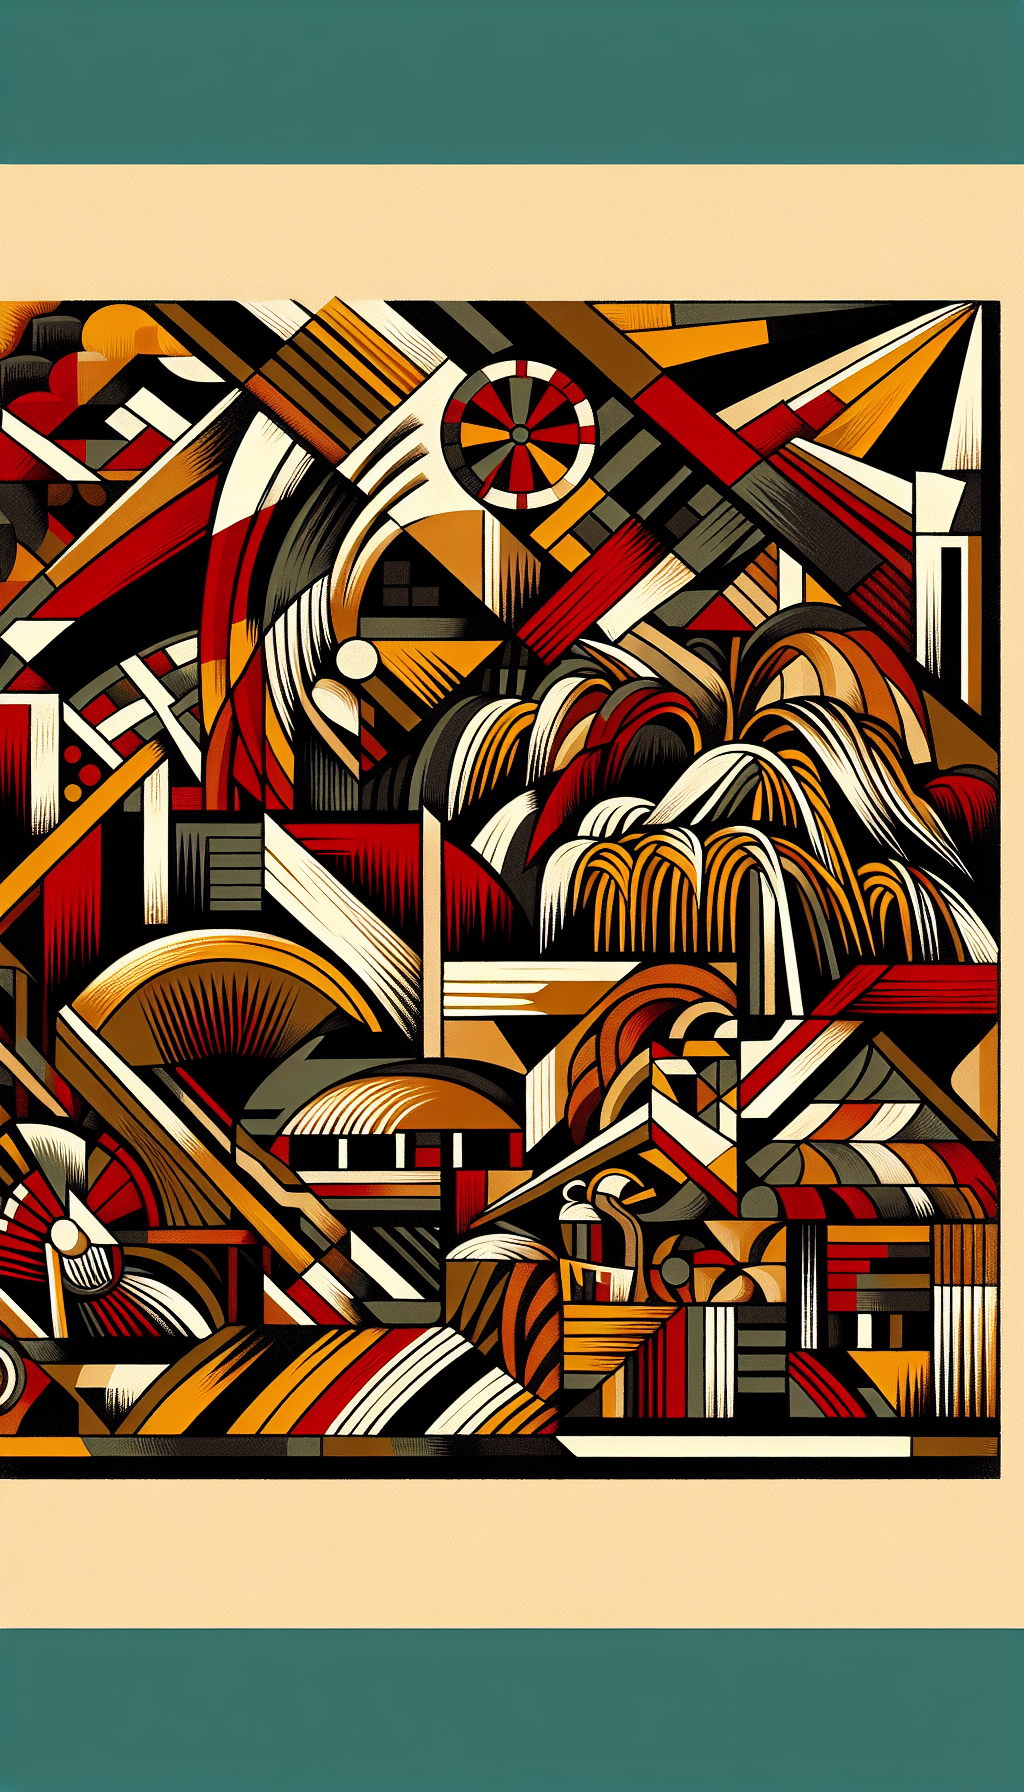
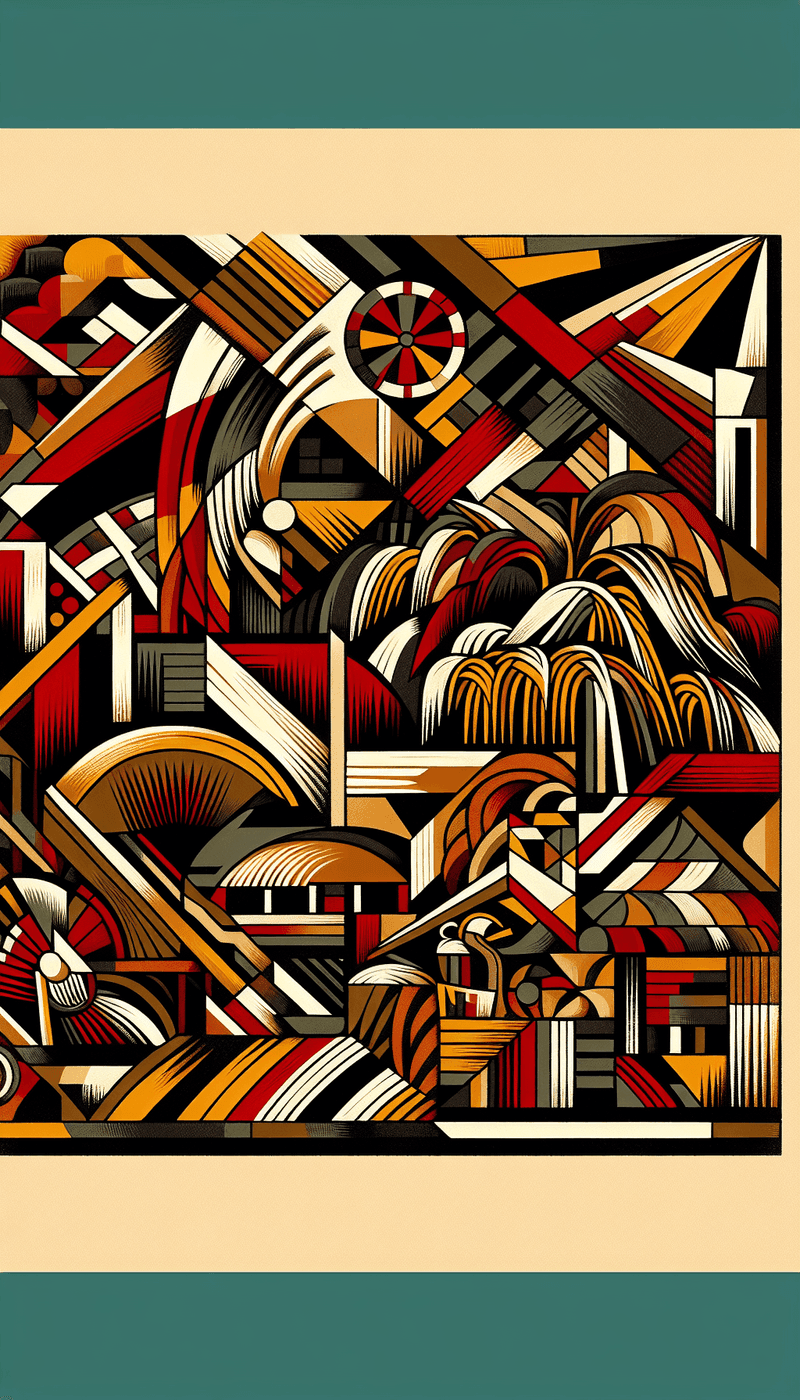
style: limitar tamaño visual de imágenes a 300px en todos los artículos

diff --git a/articulos/delapencaaljarro/de-la-penca-al-jarro.html b/articulos/delapencaaljarro/de-la-penca-al-jarro.html
@@ -63,7 +63,7 @@
     .meta-pill{display:inline-flex;align-items:center;gap:.3rem;}
     .meta-pill span{font-size:.82rem}
     .article-lead{margin:14px 0 18px;font-size:.98rem;color:#4b5563;}
-    .hero-img{margin:14px 0 24px;border-radius:18px;overflow:hidden;box-shadow:0 18px 40px rgba(15,23,42,.16);}
+    .hero-img{margin:14px auto 24px;border-radius:18px;overflow:hidden;box-shadow:0 18px 40px rgba(15,23,42,.16);max-width:300px;display:block;}
     .article-body{font-size:.97rem;color:#111827;text-align:justify}
     .article-body h2{margin:24px 0 8px;font-size:1.05rem;color:#065f46;}
     .article-body p{margin:0 0 12px;text-align:justify}

diff --git a/scripts/generate-post.js b/scripts/generate-post.js
@@ -301,7 +301,7 @@ function buildHTML({ title, excerpt, body, tag, emoji, slug, dateStr, isoDate })
     .meta-pill{display:inline-flex;align-items:center;gap:.3rem;}
     .meta-pill span{font-size:.82rem}
     .article-lead{margin:14px 0 18px;font-size:.98rem;color:#4b5563;}
-    .hero-img{margin:14px 0 24px;border-radius:18px;overflow:hidden;box-shadow:0 18px 40px rgba(15,23,42,.16);}
+    .hero-img{margin:14px auto 24px;border-radius:18px;overflow:hidden;box-shadow:0 18px 40px rgba(15,23,42,.16);max-width:300px;display:block;}
 
     /* CUERPO */
     .article-body{font-size:.97rem;color:#111827;}

diff --git a/articulos/bambu-estructural/bambu-estructural.html b/articulos/bambu-estructural/bambu-estructural.html
@@ -119,7 +119,7 @@
     .meta-pill{display:inline-flex;align-items:center;gap:.3rem;}
     .meta-pill span{font-size:.82rem}
     .article-lead{margin:14px 0 18px;font-size:.98rem;color:#4b5563;}
-    .hero-img{margin:14px 0 24px;border-radius:18px;overflow:hidden;box-shadow:0 18px 40px rgba(15,23,42,.16);}
+    .hero-img{margin:14px auto 24px;border-radius:18px;overflow:hidden;box-shadow:0 18px 40px rgba(15,23,42,.16);max-width:300px;display:block;}
 
     /* CUERPO */
     .article-body{font-size:.97rem;color:#111827;text-align:justify}

diff --git a/articulos/bioconstruccion-tecnicas-sostenibles-con-tierra/bioconstruccion-tecnicas-sostenibles-con-tierra.html b/articulos/bioconstruccion-tecnicas-sostenibles-con-tierra/bioconstruccion-tecnicas-sostenibles-con-tierra.html
@@ -119,7 +119,7 @@
     .meta-pill{display:inline-flex;align-items:center;gap:.3rem;}
     .meta-pill span{font-size:.82rem}
     .article-lead{margin:14px 0 18px;font-size:.98rem;color:#4b5563;}
-    .hero-img{margin:14px 0 24px;border-radius:18px;overflow:hidden;box-shadow:0 18px 40px rgba(15,23,42,.16);}
+    .hero-img{margin:14px auto 24px;border-radius:18px;overflow:hidden;box-shadow:0 18px 40px rgba(15,23,42,.16);max-width:300px;display:block;}
 
     /* CUERPO */
     .article-body{font-size:.97rem;color:#111827;text-align:justify}

diff --git a/articulos/cadena-de-valor-del-maguey/cadena-de-valor-del-maguey.html b/articulos/cadena-de-valor-del-maguey/cadena-de-valor-del-maguey.html
@@ -119,7 +119,7 @@
     .meta-pill{display:inline-flex;align-items:center;gap:.3rem;}
     .meta-pill span{font-size:.82rem}
     .article-lead{margin:14px 0 18px;font-size:.98rem;color:#4b5563;}
-    .hero-img{margin:14px 0 24px;border-radius:18px;overflow:hidden;box-shadow:0 18px 40px rgba(15,23,42,.16);}
+    .hero-img{margin:14px auto 24px;border-radius:18px;overflow:hidden;box-shadow:0 18px 40px rgba(15,23,42,.16);max-width:300px;display:block;}
 
     /* CUERPO */
     .article-body{font-size:.97rem;color:#111827;text-align:justify}

diff --git a/articulos/el-pulque-tradicion-y-sabor-del-maguey/el-pulque-tradicion-y-sabor-del-maguey.html b/articulos/el-pulque-tradicion-y-sabor-del-maguey/el-pulque-tradicion-y-sabor-del-maguey.html
@@ -119,7 +119,7 @@
     .meta-pill{display:inline-flex;align-items:center;gap:.3rem;}
     .meta-pill span{font-size:.82rem}
     .article-lead{margin:14px 0 18px;font-size:.98rem;color:#4b5563;}
-    .hero-img{margin:14px 0 24px;border-radius:18px;overflow:hidden;box-shadow:0 18px 40px rgba(15,23,42,.16);}
+    .hero-img{margin:14px auto 24px;border-radius:18px;overflow:hidden;box-shadow:0 18px 40px rgba(15,23,42,.16);max-width:300px;display:block;}
 
     /* CUERPO */
     .article-body{font-size:.97rem;color:#111827;text-align:justify}

diff --git a/articulos/el-renacer-de-la-tierra-polinizadores-y-humedales-en-la-restauracion-ecologica/el-renacer-de-la-tierra-polinizadores-y-humedales-en-la-restauracion-ecologica.html b/articulos/el-renacer-de-la-tierra-polinizadores-y-humedales-en-la-restauracion-ecologica/el-renacer-de-la-tierra-polinizadores-y-humedales-en-la-restauracion-ecologica.html
@@ -119,7 +119,7 @@
     .meta-pill{display:inline-flex;align-items:center;gap:.3rem;}
     .meta-pill span{font-size:.82rem}
     .article-lead{margin:14px 0 18px;font-size:.98rem;color:#4b5563;}
-    .hero-img{margin:14px 0 24px;border-radius:18px;overflow:hidden;box-shadow:0 18px 40px rgba(15,23,42,.16);}
+    .hero-img{margin:14px auto 24px;border-radius:18px;overflow:hidden;box-shadow:0 18px 40px rgba(15,23,42,.16);max-width:300px;display:block;}
 
     /* CUERPO */
     .article-body{font-size:.97rem;color:#111827;text-align:justify}

diff --git a/articulos/guiadeadobe/guiadeadobe.html b/articulos/guiadeadobe/guiadeadobe.html
@@ -119,7 +119,7 @@
     .meta-pill{display:inline-flex;align-items:center;gap:.3rem;}
     .meta-pill span{font-size:.82rem}
     .article-lead{margin:14px 0 18px;font-size:.98rem;color:#4b5563;}
-    .hero-img{margin:14px 0 24px;border-radius:18px;overflow:hidden;box-shadow:0 18px 40px rgba(15,23,42,.16);}
+    .hero-img{margin:14px auto 24px;border-radius:18px;overflow:hidden;box-shadow:0 18px 40px rgba(15,23,42,.16);max-width:300px;display:block;}
 
     /* CUERPO */
     .article-body{font-size:.97rem;color:#111827;text-align:justify}

diff --git a/articulos/humedales-urbanos-manual-de-bolsillo/humedales-urbanos-manual-de-bolsillo.html b/articulos/humedales-urbanos-manual-de-bolsillo/humedales-urbanos-manual-de-bolsillo.html
@@ -119,7 +119,7 @@
     .meta-pill{display:inline-flex;align-items:center;gap:.3rem;}
     .meta-pill span{font-size:.82rem}
     .article-lead{margin:14px 0 18px;font-size:.98rem;color:#4b5563;}
-    .hero-img{margin:14px 0 24px;border-radius:18px;overflow:hidden;box-shadow:0 18px 40px rgba(15,23,42,.16);}
+    .hero-img{margin:14px auto 24px;border-radius:18px;overflow:hidden;box-shadow:0 18px 40px rgba(15,23,42,.16);max-width:300px;display:block;}
 
     /* CUERPO */
     .article-body{font-size:.97rem;color:#111827;text-align:justify}

diff --git a/articulos/la-milpa-agricultura-tradicional-mexicana/la-milpa-agricultura-tradicional-mexicana.html b/articulos/la-milpa-agricultura-tradicional-mexicana/la-milpa-agricultura-tradicional-mexicana.html
@@ -119,7 +119,7 @@
     .meta-pill{display:inline-flex;align-items:center;gap:.3rem;}
     .meta-pill span{font-size:.82rem}
     .article-lead{margin:14px 0 18px;font-size:.98rem;color:#4b5563;}
-    .hero-img{margin:14px 0 24px;border-radius:18px;overflow:hidden;box-shadow:0 18px 40px rgba(15,23,42,.16);}
+    .hero-img{margin:14px auto 24px;border-radius:18px;overflow:hidden;box-shadow:0 18px 40px rgba(15,23,42,.16);max-width:300px;display:block;}
 
     /* CUERPO */
     .article-body{font-size:.97rem;color:#111827;text-align:justify}

diff --git a/articulos/maguey-usos-y-beneficios-del-agave/maguey-usos-y-beneficios-del-agave.html b/articulos/maguey-usos-y-beneficios-del-agave/maguey-usos-y-beneficios-del-agave.html
@@ -119,7 +119,7 @@
     .meta-pill{display:inline-flex;align-items:center;gap:.3rem;}
     .meta-pill span{font-size:.82rem}
     .article-lead{margin:14px 0 18px;font-size:.98rem;color:#4b5563;}
-    .hero-img{margin:14px 0 24px;border-radius:18px;overflow:hidden;box-shadow:0 18px 40px rgba(15,23,42,.16);}
+    .hero-img{margin:14px auto 24px;border-radius:18px;overflow:hidden;box-shadow:0 18px 40px rgba(15,23,42,.16);max-width:300px;display:block;}
 
     /* CUERPO */
     .article-body{font-size:.97rem;color:#111827;text-align:justify}

diff --git a/articulos/microbiotadelpulque/microbiotadelpulque.html b/articulos/microbiotadelpulque/microbiotadelpulque.html
@@ -119,7 +119,7 @@
     .meta-pill{display:inline-flex;align-items:center;gap:.3rem;}
     .meta-pill span{font-size:.82rem}
     .article-lead{margin:14px 0 18px;font-size:.98rem;color:#4b5563;}
-    .hero-img{margin:14px 0 24px;border-radius:18px;overflow:hidden;box-shadow:0 18px 40px rgba(15,23,42,.16);}
+    .hero-img{margin:14px auto 24px;border-radius:18px;overflow:hidden;box-shadow:0 18px 40px rgba(15,23,42,.16);max-width:300px;display:block;}
 
     /* CUERPO */
     .article-body{font-size:.97rem;color:#111827;text-align:justify}
